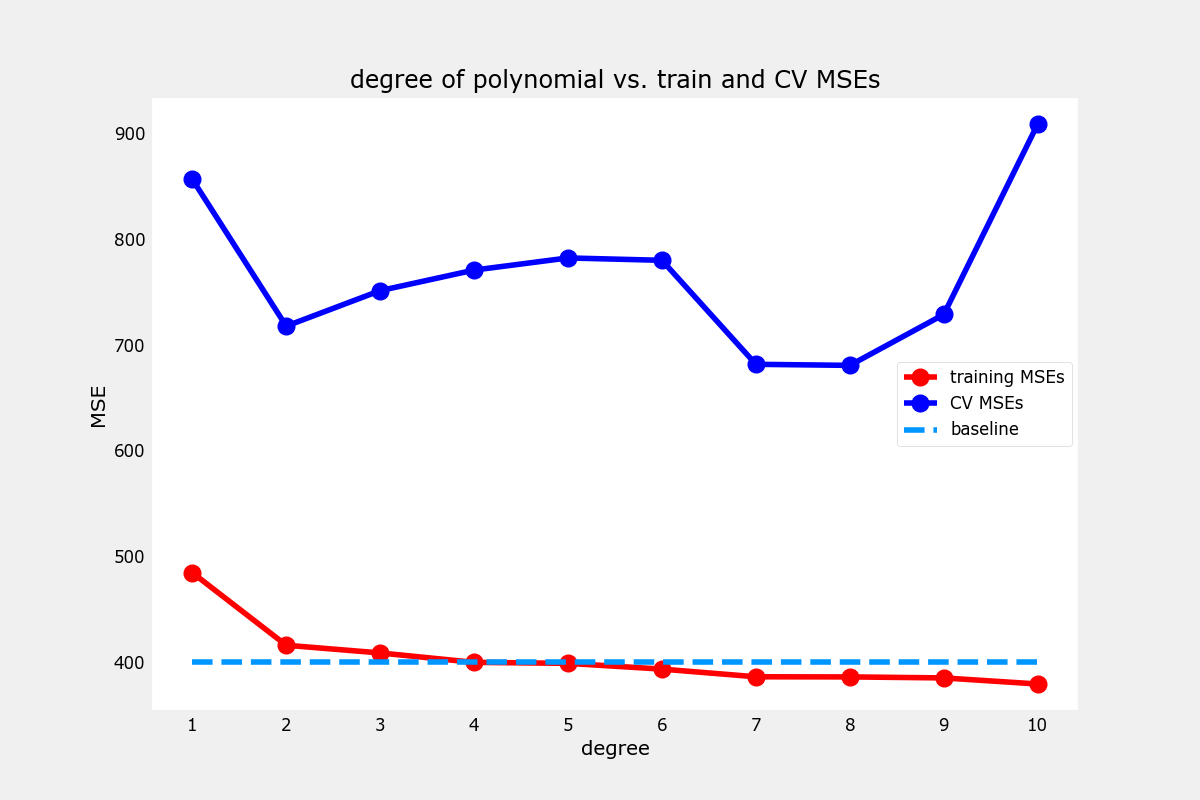
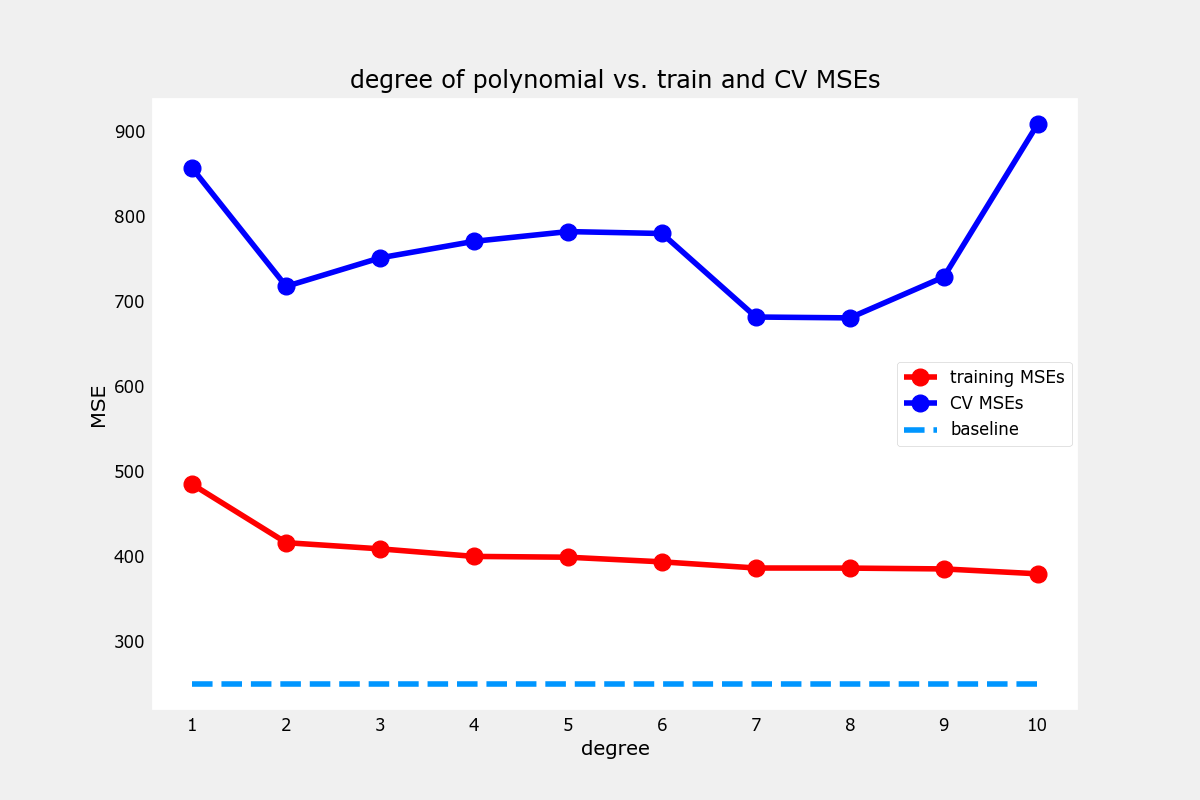
try another dataset to check the result of adding features

diff --git a/utils.py b/utils.py
@@ -169,7 +169,13 @@ def prepare_dataset(filename):
 #* Compute the training / cross validation MSE
 #* Plot the results
 #* And Save the plot_image *#
-def train_plot_poly(model, x_train, y_train, x_cv, y_cv, max_degree=10, baseline=None):
+def train_plot_poly(model, 
+                    x_train, y_train,
+                    x_cv,y_cv,
+                    max_degree=10,
+                    baseline=None,
+                    save_image=True,
+                    image_name='degree of polynomial vs. train and CV MSEs'):
     
     train_mses = []
     cv_mses = []
@@ -218,13 +224,15 @@ def train_plot_poly(model, x_train, y_train, x_cv, y_cv, max_degree=10, baseline
     plt.ylabel("MSE"); 
     plt.legend()
     
-    # Create the directory if it doesn't exist
-    directory = 'plot_images'
-    if not os.path.exists(directory):
-        os.makedirs(directory)
-    
-    # Save the plot image to the plot_images folder
-    plt.savefig(os.path.join(directory, 'degree of polynomial vs. train and CV MSEs.png'))
+    if save_image:
+        # Create the directory if it doesn't exist
+        directory = 'plot_images'
+        if not os.path.exists(directory):
+            os.makedirs(directory)
+        
+        # Save the plot image to the plot_images folder
+        plt.savefig(os.path.join(directory, f'{image_name}.png'))
+        
     plt.show()
 # *! ------------------------------------------------------------------ !* #   
 def train_plot_reg_params(reg_params, x_train, y_train, x_cv, y_cv, degree= 1, baseline=None):

diff --git a/fix_high_bias.py b/fix_high_bias.py
@@ -1,18 +1,25 @@
 from imports import *
 
+#* The following dataset has 1 input_feature *#
 # Load and split the data
 x_train, y_train, x_cv, y_cv, x_test, y_test = utils.prepare_dataset('data/c2w3_lab2_data1.csv')
 # x_train.shape = (60, 1) , y_train.shape = (60, )
 # x_cv.shape = (20, 1) , y_cv.shape = (20, )
 
-# Initialize the linear-model
 model = LinearRegression()
+#* Adding polynomial features
+#* Feature scaling
+#* Training the model
+#* Compute the training / cross validation MSE
+#* Plotting the model
+#* Save the plot image
+utils.train_plot_poly(model, x_train, y_train, x_cv, y_cv, max_degree=10, baseline=250)
 
-# Adding polynomial features
-# Feature scaling
-# Training the model
-# Compute the training / cross validation MSE
-# Plotting the model
-# Save the plot image
+#! Try getting additional features
+#* The following dataset has 2 input_feature *#
+x_train, y_train, x_cv, y_cv, x_test, y_test = utils.prepare_dataset('data/c2w3_lab2_data2.csv')
+# x_train.shape = (60, 2) , y_train.shape = (60, )
+# x_cv.shape = (20, 2) , y_cv.shape = (20, )
 
-utils.train_plot_poly(model, x_train, y_train, x_cv, y_cv, max_degree=10, baseline=400)
+model = LinearRegression()
+utils.train_plot_poly(model, x_train, y_train, x_cv, y_cv, max_degree=6, baseline=250,image_name='data2_poly.png')
